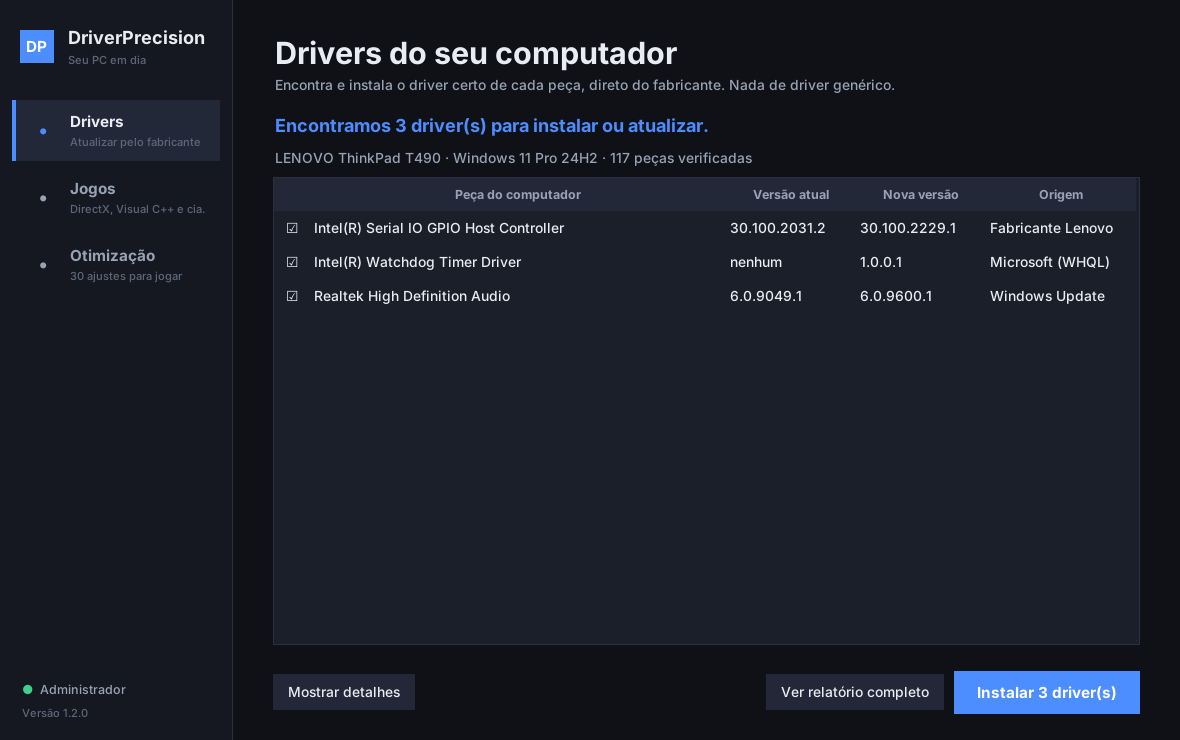
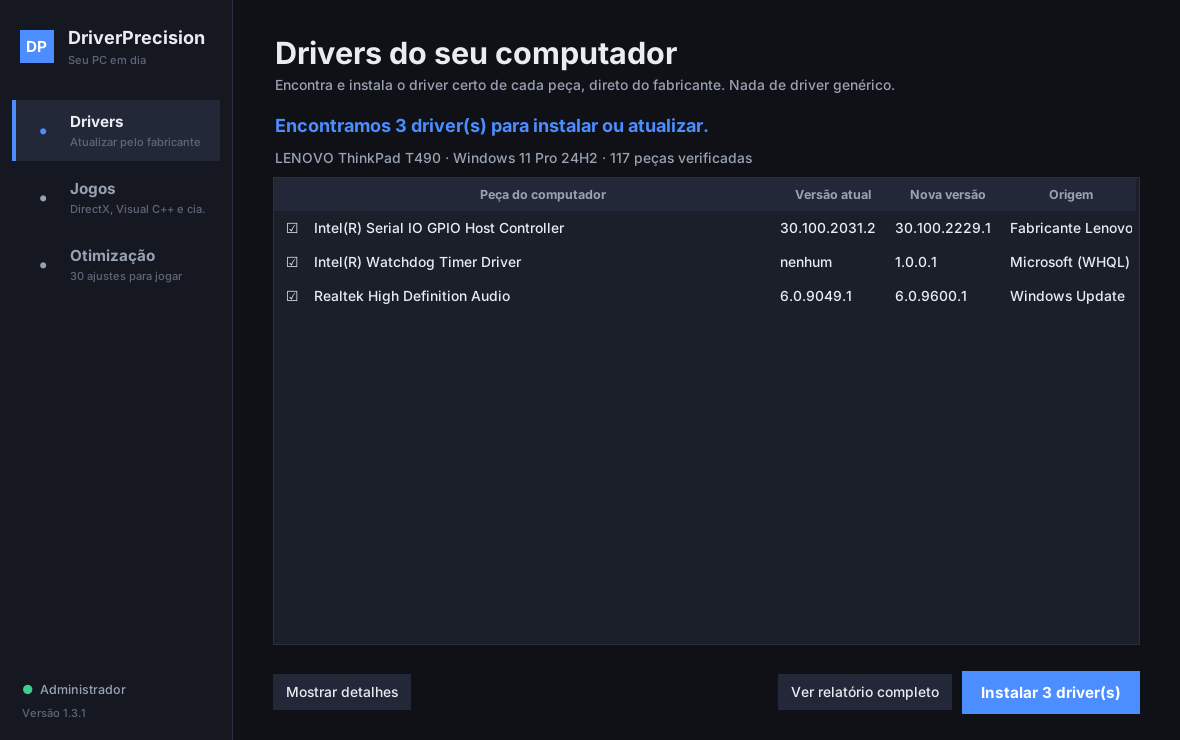
v1.3.1: correções validadas em Windows real e layout para telas pequenas
Botões sempre visíveis, colunas e textos que se adaptam à largura,
rótulos de botão mais curtos. Changelog com as correções da rodada
de testes de integração.

diff --git a/driverprecision_abas.py b/driverprecision_abas.py
@@ -24,26 +24,28 @@ class Aba:
         topo = ttk.Frame(parent, padding=(28, 24, 28, 4))
         topo.pack(fill="x")
         ttk.Label(topo, text=titulo, style="Titulo.TLabel").pack(anchor="w")
-        ttk.Label(topo, text=sub, style="Sub.TLabel", wraplength=820, justify="left").pack(anchor="w")
+        self.sub = ttk.Label(topo, text=sub, style="Sub.TLabel", wraplength=820, justify="left")
+        self.sub.pack(anchor="w")
         self.corpo = ttk.Frame(parent, padding=(28, 12))
         self.corpo.pack(fill="both", expand=True)
         self.msg = ttk.Label(self.corpo, text="", style="Msg.TLabel", wraplength=820, justify="left")
         self.msg.pack(anchor="w", pady=(0, 6))
+        tema.quebra_automatica(parent, self.sub, self.msg)
         self.barra = ttk.Progressbar(self.corpo, mode="indeterminate")
         self.base = ttk.Frame(parent, padding=(28, 10, 28, 22))
-        self.base.pack(fill="x")
+        self.base.pack(side="bottom", fill="x", before=self.corpo)  # botões sempre visíveis, mesmo em tela baixa
         self.det = tema.texto_log(parent, height=7)
-        self.btn_det = ttk.Button(self.base, text="Mostrar detalhes", command=self._toggle_det)
+        self.btn_det = ttk.Button(self.base, text="Detalhes", command=self._toggle_det)
         self.btn_det.pack(side="left")
         root.after(150, self._poll)
 
     def _toggle_det(self) -> None:
         if self.det.winfo_ismapped():
             self.det.pack_forget()
-            self.btn_det.config(text="Mostrar detalhes")
+            self.btn_det.config(text="Detalhes")
         else:
-            self.det.pack(fill="x", padx=28, pady=(0, 12), before=self.base)
-            self.btn_det.config(text="Ocultar detalhes")
+            self.det.pack(side="bottom", fill="x", padx=28, pady=(0, 12), after=self.base)
+            self.btn_det.config(text="Ocultar")
 
     def _log(self, m: str) -> None:
         self.det.configure(state="normal")
@@ -125,8 +127,8 @@ class AbaJogos(Aba):
         self.marcados: set[str] = set()
         fr, self.tree = tema.lista(self.corpo, columns=("sel", "nome", "sit", "det"), show="headings", selectmode="browse")
         fr.pack(fill="both", expand=True, pady=(4, 0))
-        for c, t, w, st in (("sel", "", 36, False), ("nome", "Componente", 300, True), ("sit", "Situação", 150, False),
-                            ("det", "Detalhe", 300, True)):
+        for c, t, w, st in (("sel", "", 36, False), ("nome", "Componente", 230, True), ("sit", "Situação", 130, False),
+                            ("det", "Detalhe", 190, True)):
             self.tree.heading(c, text=t)
             self.tree.column(c, width=w, stretch=st, anchor="center" if c == "sel" else "w")
         for st, cor in (("OK", tema.TEXTO), ("FALTA", VERMELHO), ("DESATUALIZADO", LARANJA), ("INFO", CINZA)):
@@ -134,7 +136,8 @@ class AbaJogos(Aba):
         self.tree.bind("<Button-1>", self._clique)
         self.tree.bind("<<TreeviewSelect>>", self._mostra_desc)
         self.desc = ttk.Label(self.corpo, text="", style="Sub.TLabel", wraplength=820, justify="left")
-        self.desc.pack(anchor="w", pady=(6, 0))
+        self.desc.pack(side="bottom", anchor="w", pady=(6, 0), before=fr)  # a explicação nunca some
+        tema.quebra_automatica(parent, self.desc)
         self.btn = ttk.Button(self.base, text="Verificar", style="Grande.TButton", command=self.verificar)
         self.btn.pack(side="right")
         self.msg.config(text="Clique em Verificar. Leva poucos segundos.")
@@ -238,8 +241,8 @@ class AbaOtimizacao(Aba):
         fr, self.tree = tema.lista(self.corpo, columns=("sel", "risco", "estado"), show="tree headings", selectmode="browse")
         fr.pack(fill="both", expand=True, pady=(4, 0))
         self.tree.heading("#0", text="Ajuste")
-        self.tree.column("#0", width=430, stretch=True)
-        for c, t, w in (("sel", "", 40), ("risco", "Risco", 90), ("estado", "Estado atual", 180)):
+        self.tree.column("#0", width=290, minwidth=200, stretch=True)
+        for c, t, w in (("sel", "", 36), ("risco", "Risco", 70), ("estado", "Estado atual", 170)):
             self.tree.heading(c, text=t)
             self.tree.column(c, width=w, stretch=False, anchor="center" if c != "estado" else "w")
         for r, cor in COR_RISCO.items():
@@ -249,15 +252,16 @@ class AbaOtimizacao(Aba):
         self.tree.bind("<<TreeviewSelect>>", self._mostra_desc)
         self.desc = ttk.Label(self.corpo, text="Clique num ajuste para ver o que ele faz.", style="Sub.TLabel",
                               wraplength=820, justify="left")
-        self.desc.pack(anchor="w", pady=(6, 0))
+        self.desc.pack(side="bottom", anchor="w", pady=(6, 0), before=fr)  # a explicação nunca some
+        tema.quebra_automatica(parent, self.desc)
 
         self.btn = ttk.Button(self.base, text="Aplicar marcados", style="Grande.TButton", command=self.aplicar)
         self.btn.pack(side="right")
-        self.btn_desf = ttk.Button(self.base, text="Desfazer marcados", command=self.desfazer)
+        self.btn_desf = ttk.Button(self.base, text="Desfazer", command=self.desfazer)
         self.btn_desf.pack(side="right", padx=(0, 8))
         self.btn_tudo = ttk.Button(self.base, text="Desfazer tudo", command=self.desfazer_tudo)
         self.btn_tudo.pack(side="right", padx=(0, 8))
-        self.btn_rec = ttk.Button(self.base, text="Marcar recomendados", command=self.recomendados)
+        self.btn_rec = ttk.Button(self.base, text="Recomendados", command=self.recomendados)
         self.btn_rec.pack(side="left", padx=(8, 0))
         self.msg.config(text="Lendo configurações atuais...")
         self._botoes(False)

diff --git a/driverprecision_gui.py b/driverprecision_gui.py
@@ -47,8 +47,9 @@ class App:
         topo = ttk.Frame(parent, padding=(28, 24, 28, 4))
         topo.pack(fill="x")
         ttk.Label(topo, text="Drivers do seu computador", style="Titulo.TLabel").pack(anchor="w")
-        ttk.Label(topo, text="Encontra e instala o driver certo de cada peça, direto do fabricante. "
-                             "Nada de driver genérico.", style="Sub.TLabel", wraplength=820).pack(anchor="w")
+        sub = ttk.Label(topo, text="Encontra e instala o driver certo de cada peça, direto do fabricante. "
+                                   "Nada de driver genérico.", style="Sub.TLabel", wraplength=820, justify="left")
+        sub.pack(anchor="w")
 
         self.corpo = ttk.Frame(parent, padding=(28, 12))
         self.corpo.pack(fill="both", expand=True)
@@ -62,20 +63,22 @@ class App:
 
         self.lista_frame, self.tree = tema.lista(self.corpo, columns=("sel", "disp", "atual", "novo", "fonte"),
                                                  show="headings", selectmode="none")
-        for col, txt, w, anc in (("sel", "", 36, "center"), ("disp", "Peça do computador", 380, "w"),
-                                 ("atual", "Versão atual", 130, "w"), ("novo", "Nova versão", 130, "w"),
-                                 ("fonte", "Origem", 150, "w")):
+        for col, txt, w, anc in (("sel", "", 36, "center"), ("disp", "Peça do computador", 200, "w"),
+                                 ("atual", "Versão atual", 115, "w"), ("novo", "Nova versão", 115, "w"),
+                                 ("fonte", "Origem", 130, "w")):
             self.tree.heading(col, text=txt)
             self.tree.column(col, width=w, anchor=anc, stretch=col == "disp")
         self.tree.bind("<Button-1>", self._toggle)
         self.aviso = ttk.Label(self.corpo, text="", style="Sub.TLabel", wraplength=820, justify="left")
+        self.passo.configure(justify="left")
+        tema.quebra_automatica(parent, sub, self.msg, self.passo, self.aviso)
 
         self.det_frame = ttk.Frame(self.corpo)
         self.txt = tema.texto_log(self.det_frame, height=10)
         self.txt.pack(fill="both", expand=True)
 
         base = ttk.Frame(parent, padding=(28, 10, 28, 22))
-        base.pack(fill="x")
+        base.pack(side="bottom", fill="x", before=self.corpo)  # botões sempre visíveis, mesmo em tela baixa
         self.btn = ttk.Button(base, text="Verificar agora", style="Grande.TButton", command=self.verificar)
         self.btn.pack(side="right")
         self.btn2 = ttk.Button(base, text="Ver relatório completo", command=self.abrir_relatorio)
@@ -296,7 +299,7 @@ def run_gui() -> None:
     tw, th = root.winfo_screenwidth(), root.winfo_screenheight()
     w, h = min(1180, tw - 60), min(740, th - 110)
     root.geometry(f"{w}x{h}+{max(0, (tw - w) // 2)}+{max(0, (th - h) // 2 - 30)}")
-    root.minsize(min(900, w), min(560, h))
+    root.minsize(min(960, w), min(600, h))
     tema.aplicar(root)
     jan = tema.Janela(root, dp.VERSION, dp.is_admin())
     pg_drv = jan.pagina("drivers", "Drivers", "Atualizar pelo fabricante")

diff --git a/driverprecision_tema.py b/driverprecision_tema.py
@@ -77,12 +77,12 @@ def aplicar(root: tk.Tk) -> None:
     st.configure("Msg.TLabel", font=(FONTE, 13, "bold"), foreground=TEXTO)
 
     # botões
-    st.configure("TButton", background=CARTAO_2, foreground=TEXTO, borderwidth=0, padding=(14, 8),
+    st.configure("TButton", background=CARTAO_2, foreground=TEXTO, borderwidth=0, padding=(12, 8), width=-5,
                  font=(FONTE, 10), relief="flat", lightcolor=CARTAO_2, darkcolor=CARTAO_2, bordercolor=CARTAO_2)
     st.map("TButton", background=[("disabled", CARTAO), ("pressed", BORDA), ("active", BORDA)],
            foreground=[("disabled", APAGADO)],
            lightcolor=[("active", BORDA)], darkcolor=[("active", BORDA)], bordercolor=[("active", BORDA)])
-    st.configure("Grande.TButton", background=AZUL, foreground="#ffffff", font=(FONTE, 11, "bold"), padding=(22, 11),
+    st.configure("Grande.TButton", background=AZUL, foreground="#ffffff", font=(FONTE, 11, "bold"), padding=(18, 11),
                  lightcolor=AZUL, darkcolor=AZUL, bordercolor=AZUL)
     st.map("Grande.TButton", background=[("disabled", CARTAO_2), ("pressed", AZUL), ("active", AZUL_HOVER)],
            foreground=[("disabled", APAGADO)],
@@ -107,6 +107,14 @@ def aplicar(root: tk.Tk) -> None:
     st.configure("TProgressbar", background=AZUL, troughcolor=CARTAO, borderwidth=0, thickness=6,
                  lightcolor=AZUL, darkcolor=AZUL, bordercolor=CARTAO)
     _barra_titulo_escura(root)
+
+
+def quebra_automatica(frame, *rotulos) -> None:
+    """Os textos quebram de linha na largura real da janela (não cortam em tela estreita)."""
+    def ajusta(ev):
+        for r in rotulos:
+            r.configure(wraplength=max(280, ev.width - 96))
+    frame.bind("<Configure>", ajusta, add="+")
 
 
 def texto_log(parent, **kw) -> tk.Text:

diff --git a/driverprecision.py b/driverprecision.py
@@ -39,7 +39,7 @@ import urllib.request
 import xml.etree.ElementTree as ET
 from pathlib import Path
 
-VERSION = "1.3.0"
+VERSION = "1.3.1"
 UA = "Mozilla/5.0 (Windows NT 10.0; Win64; x64) DriverPrecision/" + VERSION
 BASE = Path(os.environ.get("LOCALAPPDATA", Path.home())) / "DriverPrecision"
 CACHE = BASE / "cache"

diff --git a/CHANGELOG.md b/CHANGELOG.md
@@ -2,6 +2,23 @@
 
 Formato baseado em [Keep a Changelog](https://keepachangelog.com/pt-BR/1.1.0/). Versões seguem [SemVer](https://semver.org/lang/pt-BR/).
 
+## [1.3.1] - 2026-11-16
+
+Versão de correções, depois de testar tudo num Windows de verdade (Windows Server 2022 e 2025 descartáveis do GitHub, como administrador): aplicar e desfazer os 30 ajustes, baixar e instalar os componentes de jogos, consultar Lenovo/Dell/HP, verificar drivers e abrir a janela e o .exe.
+
+### Corrigido
+- **Desfazer dos ajustes de energia** (estacionamento de núcleos, USB, Wi-Fi, PCIe) falhava com "Acesso negado": o Windows protege as chaves dos planos de energia. Agora a leitura e o desfazer passam pelo `powercfg`.
+- **Conferência de assinatura digital falhava** quando o programa era aberto a partir do PowerShell 7, bloqueando a instalação de componentes e drivers.
+- Ajuste de energia que não existe no PC (ex.: Wi-Fi em desktop) aparecia como aplicado; agora aparece "Não se aplica".
+- Drivers Lenovo: instalação falhava se a pasta do usuário tivesse espaço no nome.
+- Pacotes Lenovo que reiniciam o PC sozinhos ficam fora da instalação automática.
+- Texto com acento na saída de um instalador podia interromper a instalação.
+- Erros do Windows no plano de energia e no `bcdedit` deixam de ser relatados como sucesso.
+- Janela cabia mal em telas pequenas (1366x768 e menores): agora abre no tamanho da tela, centralizada, com os botões sempre visíveis e os textos quebrando na largura certa.
+
+### Adicionado
+- Teste de integração automático em Windows real a cada alteração do código (`tests/integracao_windows.py`).
+
 ## [1.3.0] - 2026-11-16
 
 ### Alterado
@@ -44,6 +61,7 @@ Formato baseado em [Keep a Changelog](https://keepachangelog.com/pt-BR/1.1.0/). 
 - Comandos `baixar` (hash + Authenticode) e `instalar` (admin, confirmação, ponto de restauração; BIOS/firmware nunca automático).
 - `DriverPrecision.exe` gerado pelo GitHub Actions a cada release.
 
+[1.3.1]: https://github.com/joao-eder/driverprecision/releases/tag/v1.3.1
 [1.3.0]: https://github.com/joao-eder/driverprecision/releases/tag/v1.3.0
 [1.2.0]: https://github.com/joao-eder/driverprecision/releases/tag/v1.2.0
 [1.1.0]: https://github.com/joao-eder/driverprecision/releases/tag/v1.1.0
